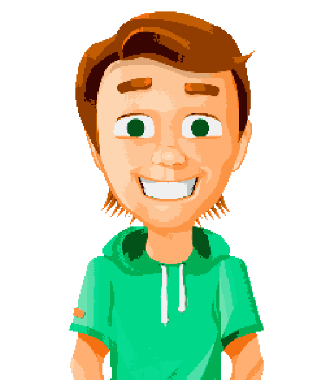
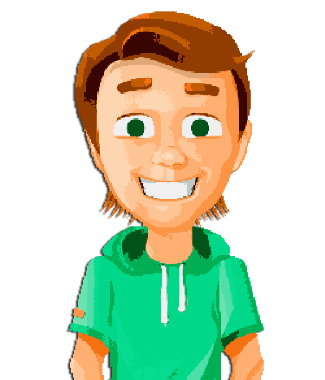
algumas mudanças

diff --git a/Insper Capitalsta.py b/Insper Capitalsta.py
@@ -3,13 +3,15 @@
 import pygame
 from pygame.locals import *
 import shelve
-
+#import image 
+#import time
     
    
 # Imagens Importadas
 Insper_background = pygame.image.load('teste.png')
 icone = pygame.image.load('insperLogo.jpg')
 aluno = pygame.image.load('alunocapitalistas.png')
+alunoR = pygame.image.load('alunocapitalistasR.png')
 dollar = pygame.image.load('Dollars.png')
 FabLab = pygame.image.load('FabLab 8Bit.png')
 Fabulas = pygame.image.load('Calculo.png')
@@ -38,7 +40,7 @@ clock = pygame.time.Clock()
 #Iniciar Display e set de Resolução RESOLUÇAO DEFINIDA EM 768x531 POR CAUSA DAS IMAGENS
 gameDisplay = pygame.display.init()
 screen = pygame.display.set_mode((1024,768))
-#pygame.display.toggle_fullscreen()
+
 
 #Shortcut pra Key
 key = pygame.key
@@ -57,14 +59,21 @@ def contagem_livros(livros):
     font = pygame.font.SysFont(None,50)
     text = font.render("livros:"+str(livros),True,(0,200,0))
     screen.blit(text,(850,30))
+
+def contagem_cafes(cafes):
+    font = pygame.font.SysFont(None,50)
+    text = font.render("livros:"+str(livros),True,(0,200,0))
+    screen.blit(text,(850,70))
  
-def Save(count,inflacaocafe,inflacaolivro,Multi):
+def Save(count,inflacaocafe,inflacaolivro,Multi,livros,MultiT1,cafes):
     SaveGameClick = shelve.open('InsperCap.Save 1')
     SaveGameClick['count'] = count
     SaveGameClick['inflacaocafe'] = inflacaocafe 
     SaveGameClick['inflacaolivro'] = inflacaolivro 
     SaveGameClick['Multi'] = Multi
-
+    SaveGameClick['livros'] = livros
+    SaveGameClick['MultiT1'] = MultiT1
+    SaveGameClick['cafes'] = cafes
     SaveGameClick.close()
     
 def Load():
@@ -72,16 +81,21 @@ def Load():
     count = SaveGameClick['count']
     inflacaocafe = SaveGameClick['inflacaocafe']
     inflacaolivro = SaveGameClick['inflacaolivro']
-    Multi = SaveGameClick['Multi']
+    livros = SaveGameClick['livros']
+    MultiT1 = SaveGameClick['MultiT1']
+    cafes = SaveGameClick['cafes']
     SaveGameClick.close()
-    return count,inflacaocafe,inflacaolivro,Multi
+    return count,inflacaolivro,inflacaocafe,Multi,MultiT1,cafes,livros
     
 def Reset():
     count = 0
     inflacaolivro = 1.0
     inflacaocafe = 1.0  
     Multi = 1
-    return count,inflacaolivro,inflacaocafe,Multi
+    MultiT1 = 1
+    cafes = 0
+    livros = 0
+    return count,inflacaolivro,inflacaocafe,Multi,MultiT1,cafes,livros
     
     
     
@@ -97,11 +111,15 @@ def Reset():
 #variáveis
 inflacaolivro = 1.0
 inflacaocafe = 1.0   
+DINHEIROTEMPO = USEREVENT + 1 
+pygame.time.set_timer(DINHEIROTEMPO, 1000)
 #Working Condition
 Crashed = False
-count = 0
+count = 0 
 Multi = 1
 livros = 0
+cafes = 0
+MultiT1 = 1
 
     
     
@@ -119,6 +137,7 @@ while not Crashed:
         pygame.draw.rect(screen,(0,0,0),(600,300,225,225),1)
     Xmouse,Ymouse = Mouse()
     dinheiro(count)
+    contagem_cafes(cafes)
     #aluno e livro
     if count >= 200 * inflacaolivro:
         screen.blit(Fabulas,[600,50])
@@ -127,7 +146,7 @@ while not Crashed:
     elif count < 200 * inflacaolivro:
         screen.blit(FabulasBW,[600,50])
         pygame.draw.rect(screen,(0,0,0),(600,50,225,225),1)
-    pygame.draw.rect(screen, (0,0,0),(30,197,195,380),True)
+    pygame.draw.rect(screen, (255,255,255),(30,197,195,380),True) #aluno
     dinheiro(count)
     contagem_livros(livros)
     
@@ -138,27 +157,44 @@ while not Crashed:
                 Crashed = True
                 pygame.quit()
             
-            elif event.key == K_F11:
+            elif event.key == K_h:
                 pygame.display.toggle_fullscreen()
-            
             elif event.key == K_s:
-                Save(count,inflacaocafe,inflacaolivro)    
-                
-                
-            elif event.key == K_s:
-                Save(count,inflacaocafe,inflacaolivro,Multi)  
+                Save(count,inflacaocafe,inflacaolivro,Multi,livros.MultiT1,cafes)  
                 
             elif event.key == K_l:
-                count, inflacaocafe, inflacaolivro , Multi = Load()
+                count,inflacaocafe,inflacaolivro,Multi,livros.MultiT1,cafes = Load()
                 
             elif event.key == K_r:
-                count, inflacaocafe, inflacaolivro , Multi = Reset()
+                count,inflacaocafe,inflacaolivro,Multi,livros.MultiT1,cafes = Reset()
                 
         elif event.type == QUIT:
             pygame.quit()
+
+        elif event.type == DINHEIROTEMPO:
+            if cafes == 1:
+                count += 1 
+            elif cafes > 1:
+                count += 1 + MultiT1    
         
+        elif event.type == MOUSEBUTTONDOWN:
+            if 30+195 > Xmouse > 30:
+                if 197+380 > Ymouse > 197:
+                    aluno =  alunoR
+                    screen.blit(aluno,[-40,197])
+
         elif event.type == MOUSEBUTTONUP:
             Xmouse,Ymouse = event.pos
+            if 30+195 > Xmouse > 30:
+                if 197+380 > Ymouse > 197:
+                    aluno = pygame.image.load('alunocapitalistas.png')
+                    screen.blit(aluno,[-40,197])
+
+
+
+        
+            
+
             #Botao Aluno
             if 30+195 > Xmouse > 30:
                 if 197+380 > Ymouse > 197:       
@@ -176,16 +212,17 @@ while not Crashed:
             if count >= 300 * inflacaocafe:
                 if 600+225 > Xmouse > 600:
                     if 300+225 > Ymouse > 300:
-                        
-                            Multi *= 2
-                            count -= 300
-                            inflacaocafe *= 1.7  
+                        cafes += 1
+                        MultiT1 *= 2
+                        count -= 300
+                        inflacaocafe *= 1.7  
+
+
+
+
+
+
                             
             
     pygame.display.update()                
     clock.tick(60)
-                
-                
-                
-
-
